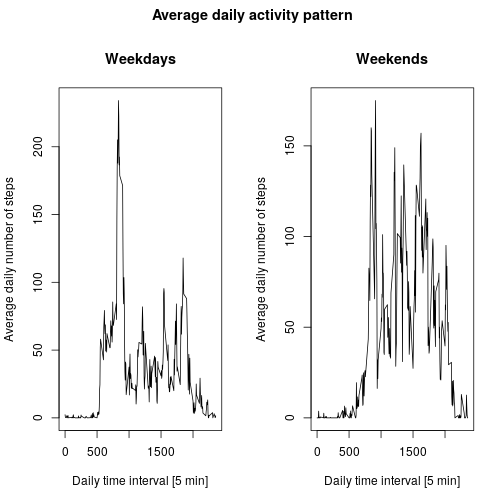
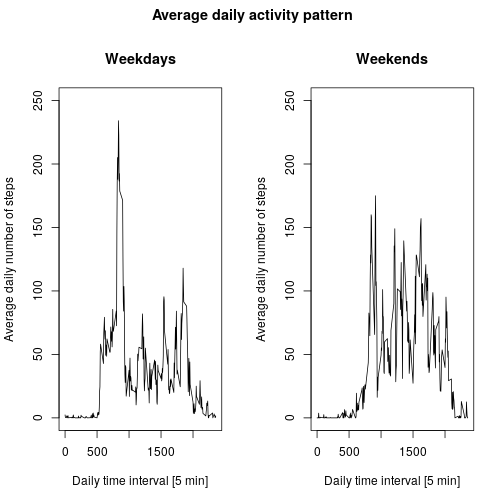
final adjustments

diff --git a/PA1_template.html b/PA1_template.html
@@ -352,15 +352,15 @@ average_daily_activity_pattern_weekend &lt;- with(activity_monitoring_data[activ
 plot(names(average_daily_activity_pattern_weekday), average_daily_activity_pattern_weekday, 
      main = &#39;Weekdays&#39;, 
      xlab = &#39;Daily time interval [5 min]&#39;, ylab = &#39;Average daily number of steps&#39;, 
-     type = &#39;l&#39;, lwd = 1, lty = 1)
+     type = &#39;l&#39;, lwd = 1, lty = 1, ylim = c(0, 250))
 plot(names(average_daily_activity_pattern_weekend), average_daily_activity_pattern_weekend, 
      main = &#39;Weekends&#39;, 
      xlab = &#39;Daily time interval [5 min]&#39;, ylab = &#39;Average daily number of steps&#39;, 
-     type = &#39;l&#39;, lwd = 1, lty = 1)
+     type = &#39;l&#39;, lwd = 1, lty = 1, ylim = c(0, 250))
 title(&quot;Average daily activity pattern&quot;, outer=TRUE)
 </code></pre>
 
[2 lines of base64/hex data omitted]
 
 </body>
 

diff --git a/PA1_template.md b/PA1_template.md
@@ -187,11 +187,11 @@ average_daily_activity_pattern_weekend <- with(activity_monitoring_data[activity
 plot(names(average_daily_activity_pattern_weekday), average_daily_activity_pattern_weekday, 
      main = 'Weekdays', 
      xlab = 'Daily time interval [5 min]', ylab = 'Average daily number of steps', 
-     type = 'l', lwd = 1, lty = 1)
+     type = 'l', lwd = 1, lty = 1, ylim = c(0, 250))
 plot(names(average_daily_activity_pattern_weekend), average_daily_activity_pattern_weekend, 
      main = 'Weekends', 
      xlab = 'Daily time interval [5 min]', ylab = 'Average daily number of steps', 
-     type = 'l', lwd = 1, lty = 1)
+     type = 'l', lwd = 1, lty = 1, ylim = c(0, 250))
 title("Average daily activity pattern", outer=TRUE)
 ```
 
